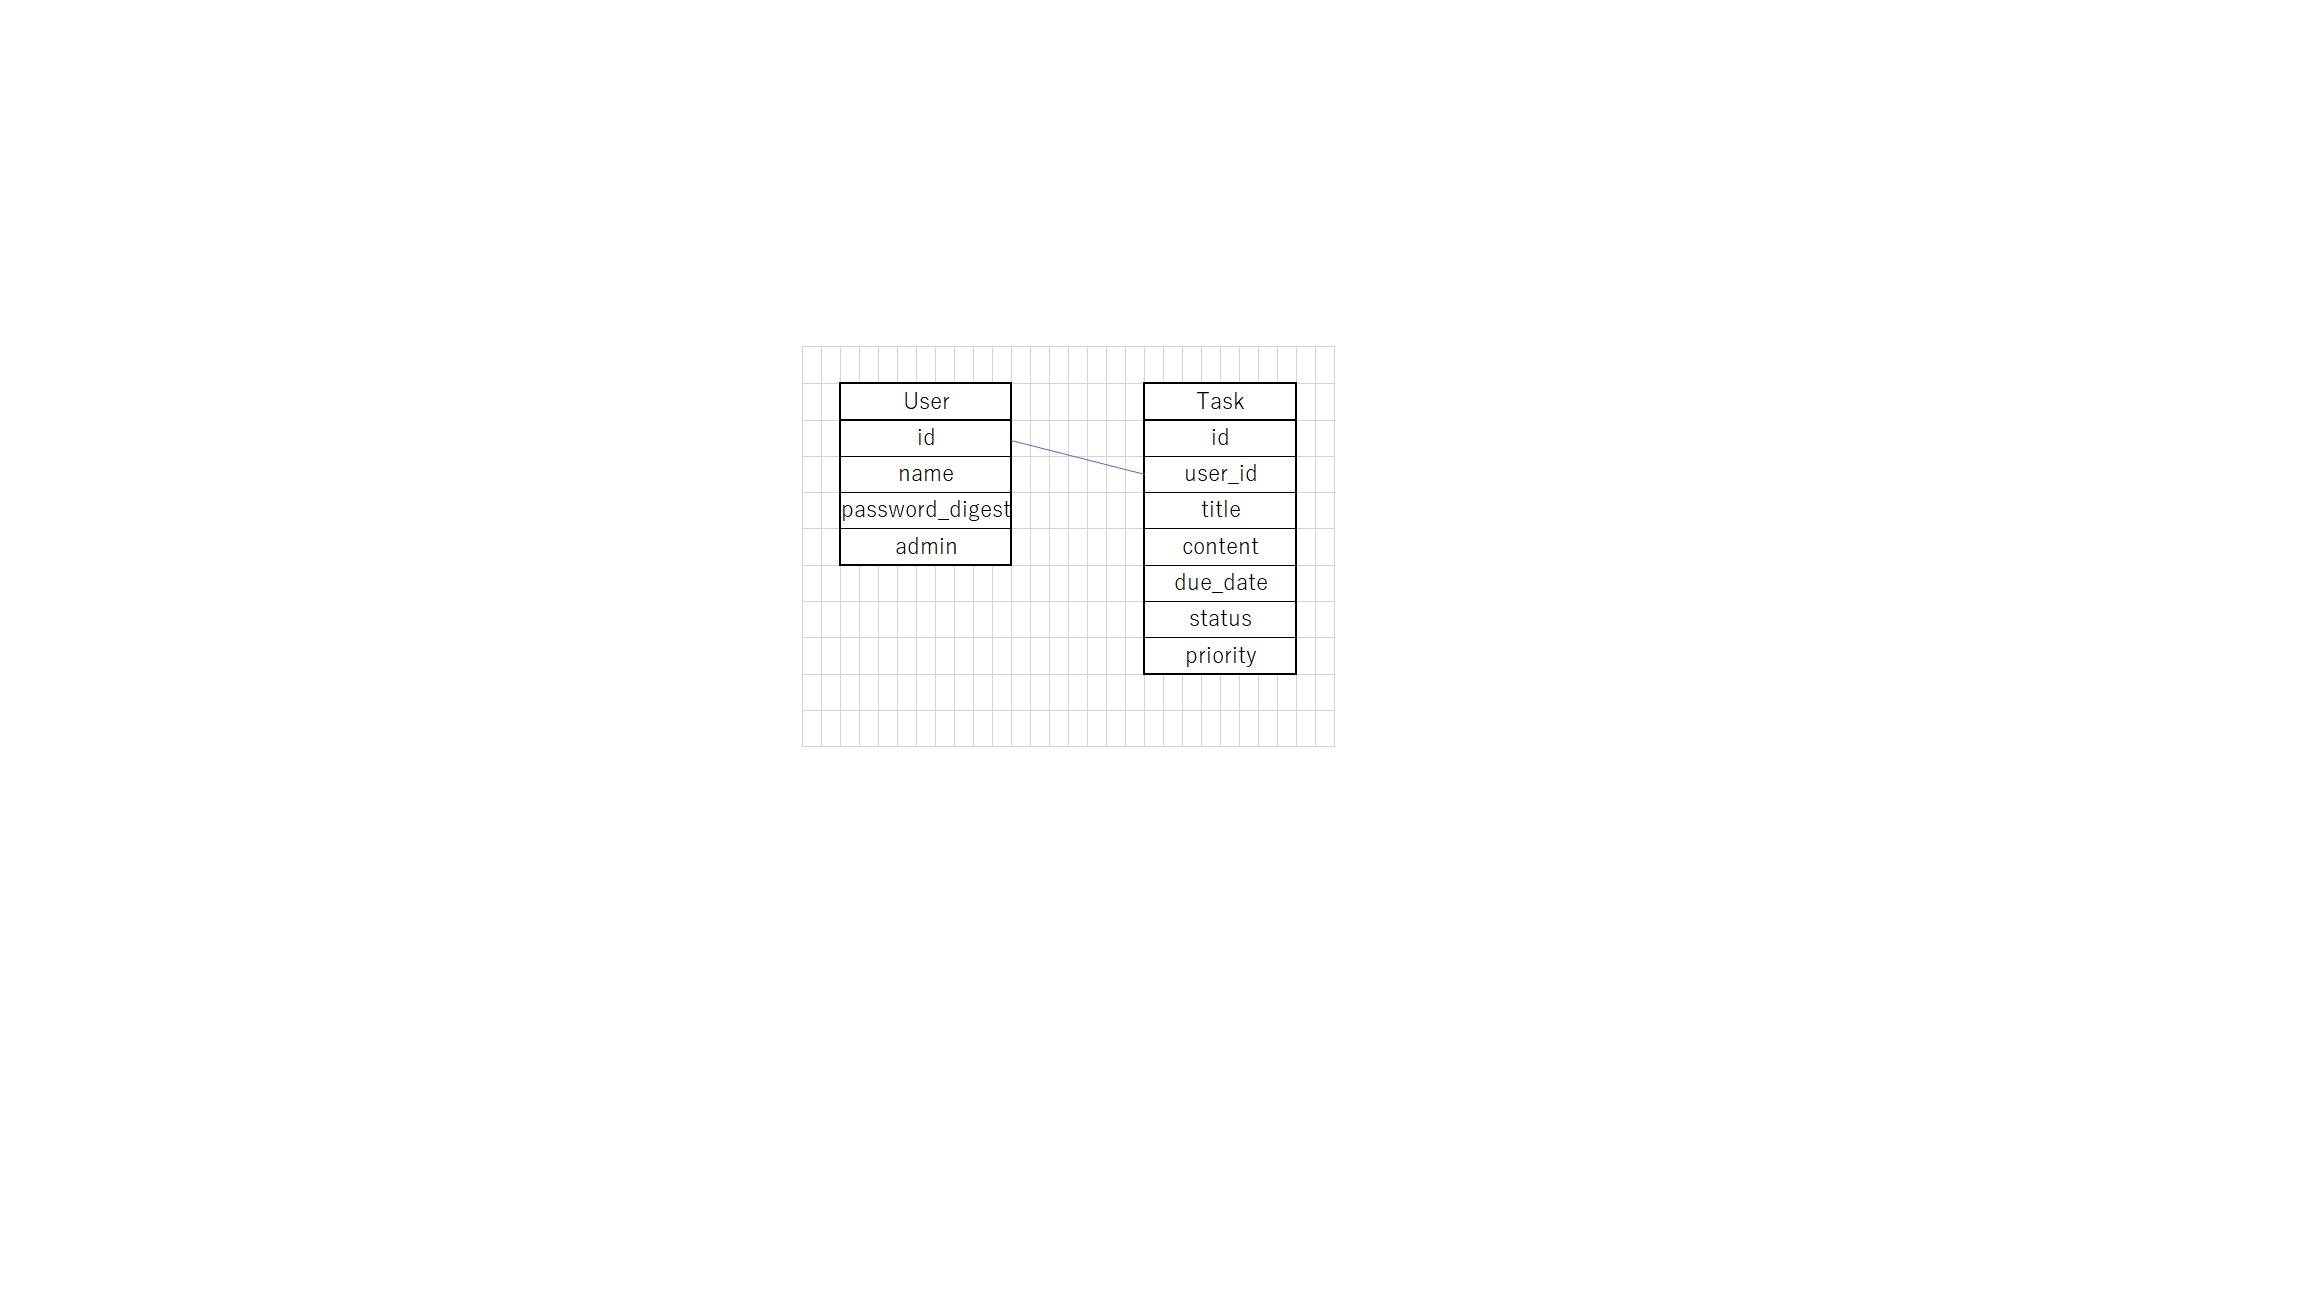
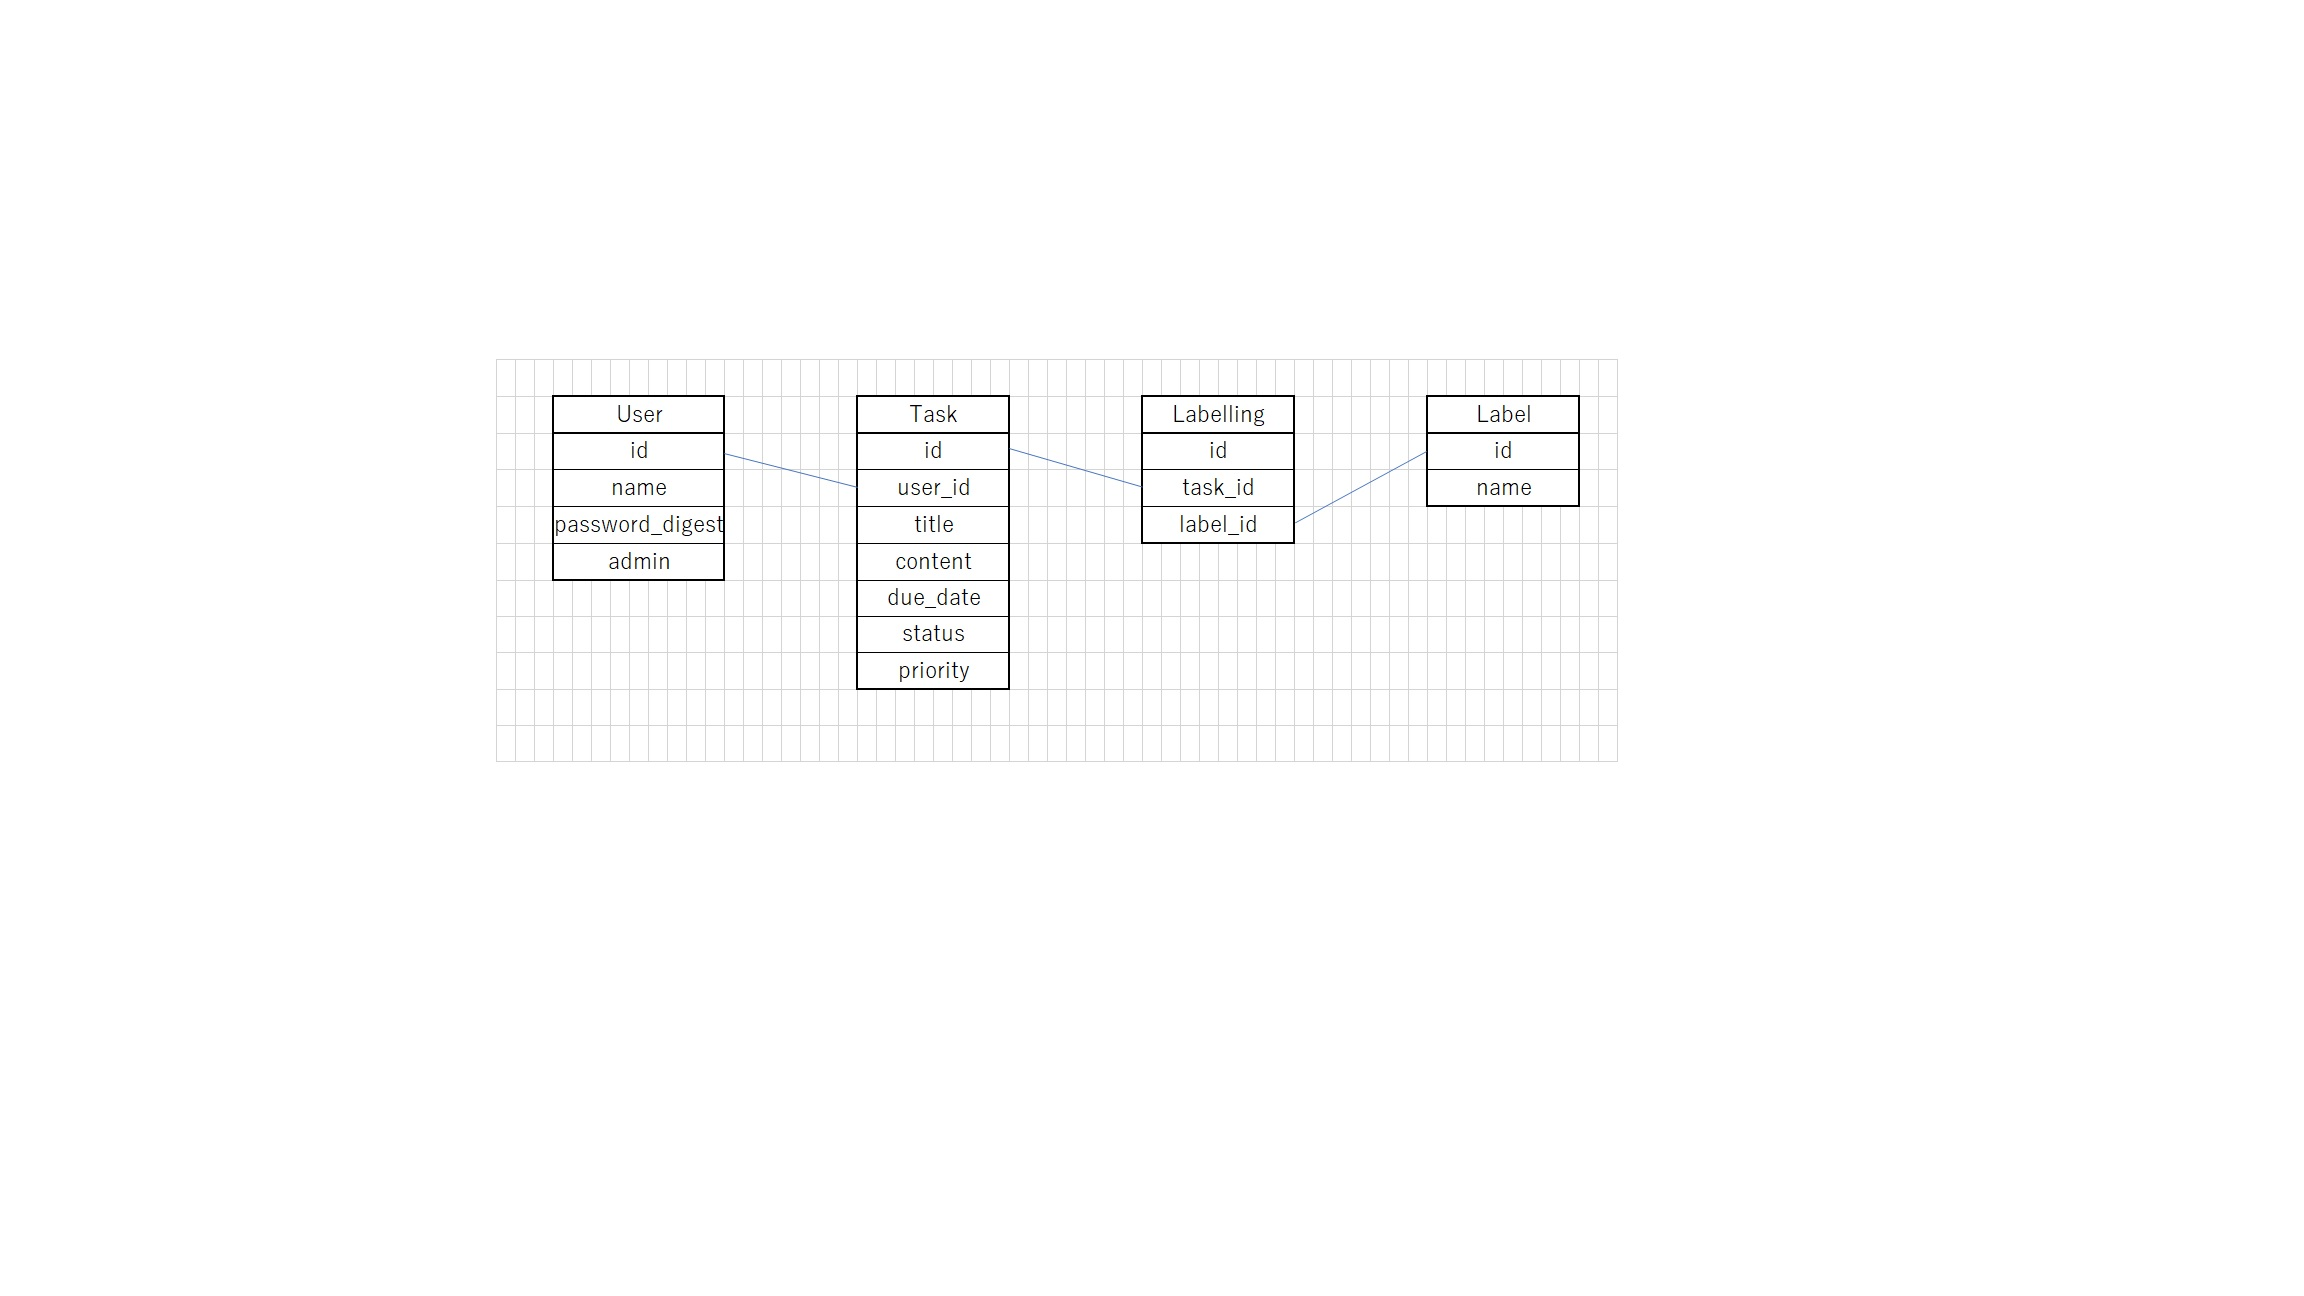
README and ERdiagram updated

diff --git a/README.md b/README.md
@@ -6,12 +6,20 @@
  * due_date : date
  * status : integer
  * priority : integer
+ * user_id : bigint
 
 ### Model : User
  * name : string
  * email : string
  * password_digest : string
  * admin : boolean
+
+### Model : Labelling
+ * task_id : bigint
+ * label_id : bigint
+
+### Model : Label
+ * name : string
  ---
 
  # Procedure of deploying to Heroku
